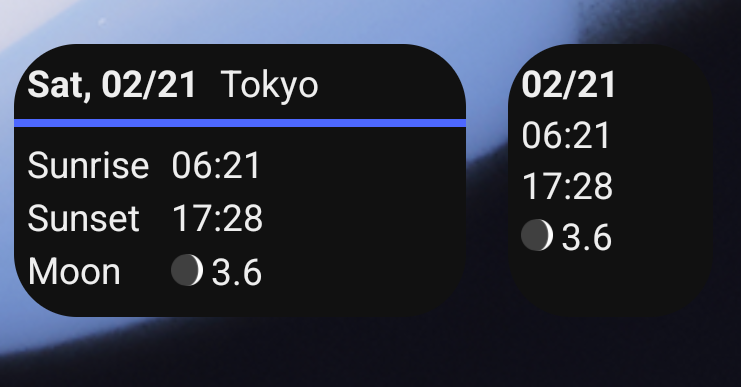
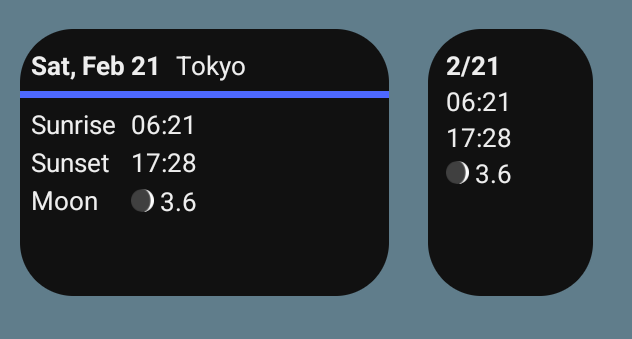
update widget date style (#37)

diff --git a/app/src/main/java/net/nhiroki/bluelinesolarinfo/widgets/SolarInfoTodayMediumProvider.java b/app/src/main/java/net/nhiroki/bluelinesolarinfo/widgets/SolarInfoTodayMediumProvider.java
@@ -87,7 +87,7 @@ public class SolarInfoTodayMediumProvider extends AppWidgetProvider {
         Instant midOfDay = dayMidLocal.toInstant();
 
         Locale locale = context.getResources().getConfiguration().locale;
-        String dateFormat = DateFormat.getBestDateTimePattern(locale, "MMddE");
+        String dateFormat = DateFormat.getBestDateTimePattern(locale, "MMMdE");
         remoteViews.setTextViewText(R.id.suninfo_widget_date, new SimpleDateFormat(dateFormat, locale).format(new Date(nowLocal.getYear() - 1900, nowLocal.getMonthValue() - 1, nowLocal.getDayOfMonth())));
         remoteViews.setTextViewText(R.id.suninfo_widget_location, region.getName());
 

diff --git a/app/src/main/java/net/nhiroki/bluelinesolarinfo/widgets/SolarInfoTodayTinyProvider.java b/app/src/main/java/net/nhiroki/bluelinesolarinfo/widgets/SolarInfoTodayTinyProvider.java
@@ -87,7 +87,7 @@ public class SolarInfoTodayTinyProvider extends AppWidgetProvider {
         Instant midOfDay = dayMidLocal.toInstant();
 
         Locale locale = context.getResources().getConfiguration().locale;
-        String dateFormat = DateFormat.getBestDateTimePattern(locale, "MMdd");
+        String dateFormat = DateFormat.getBestDateTimePattern(locale, "Md");
         remoteViews.setTextViewText(R.id.suninfo_widget_date, new SimpleDateFormat(dateFormat, locale).format(new Date(nowLocal.getYear() - 1900, nowLocal.getMonthValue() - 1, nowLocal.getDayOfMonth())));
 
         Sun sun = new Sun();
